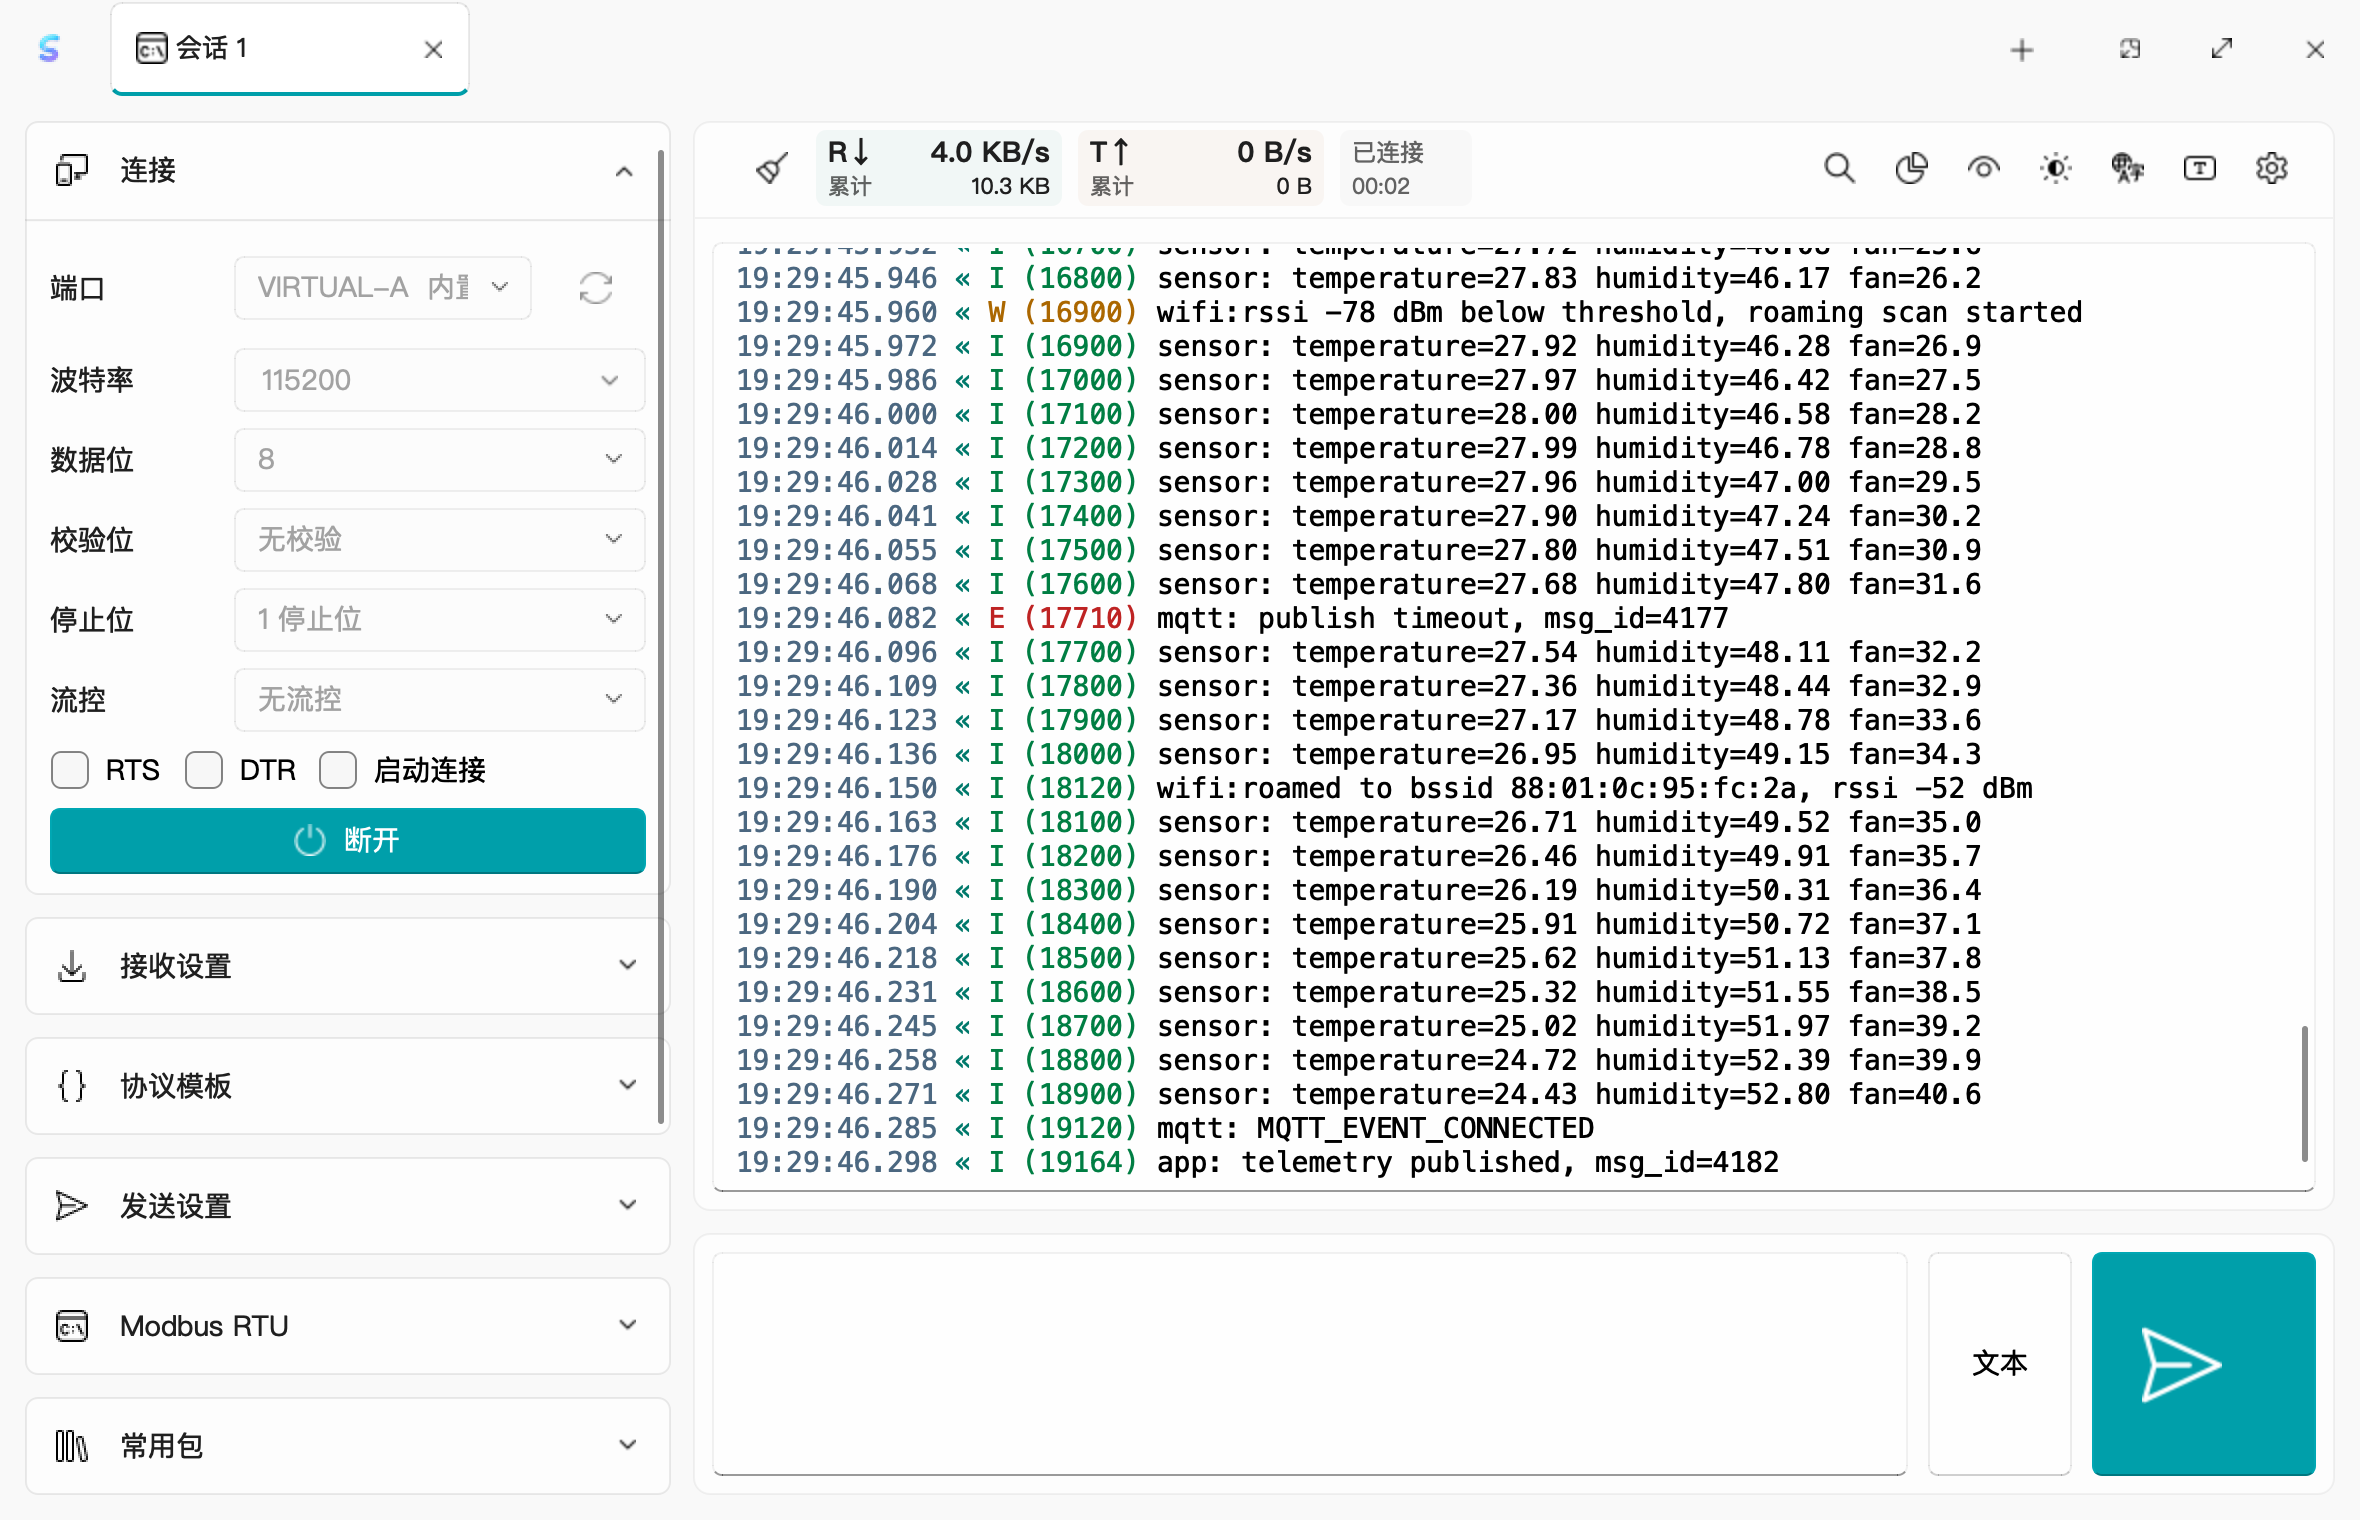
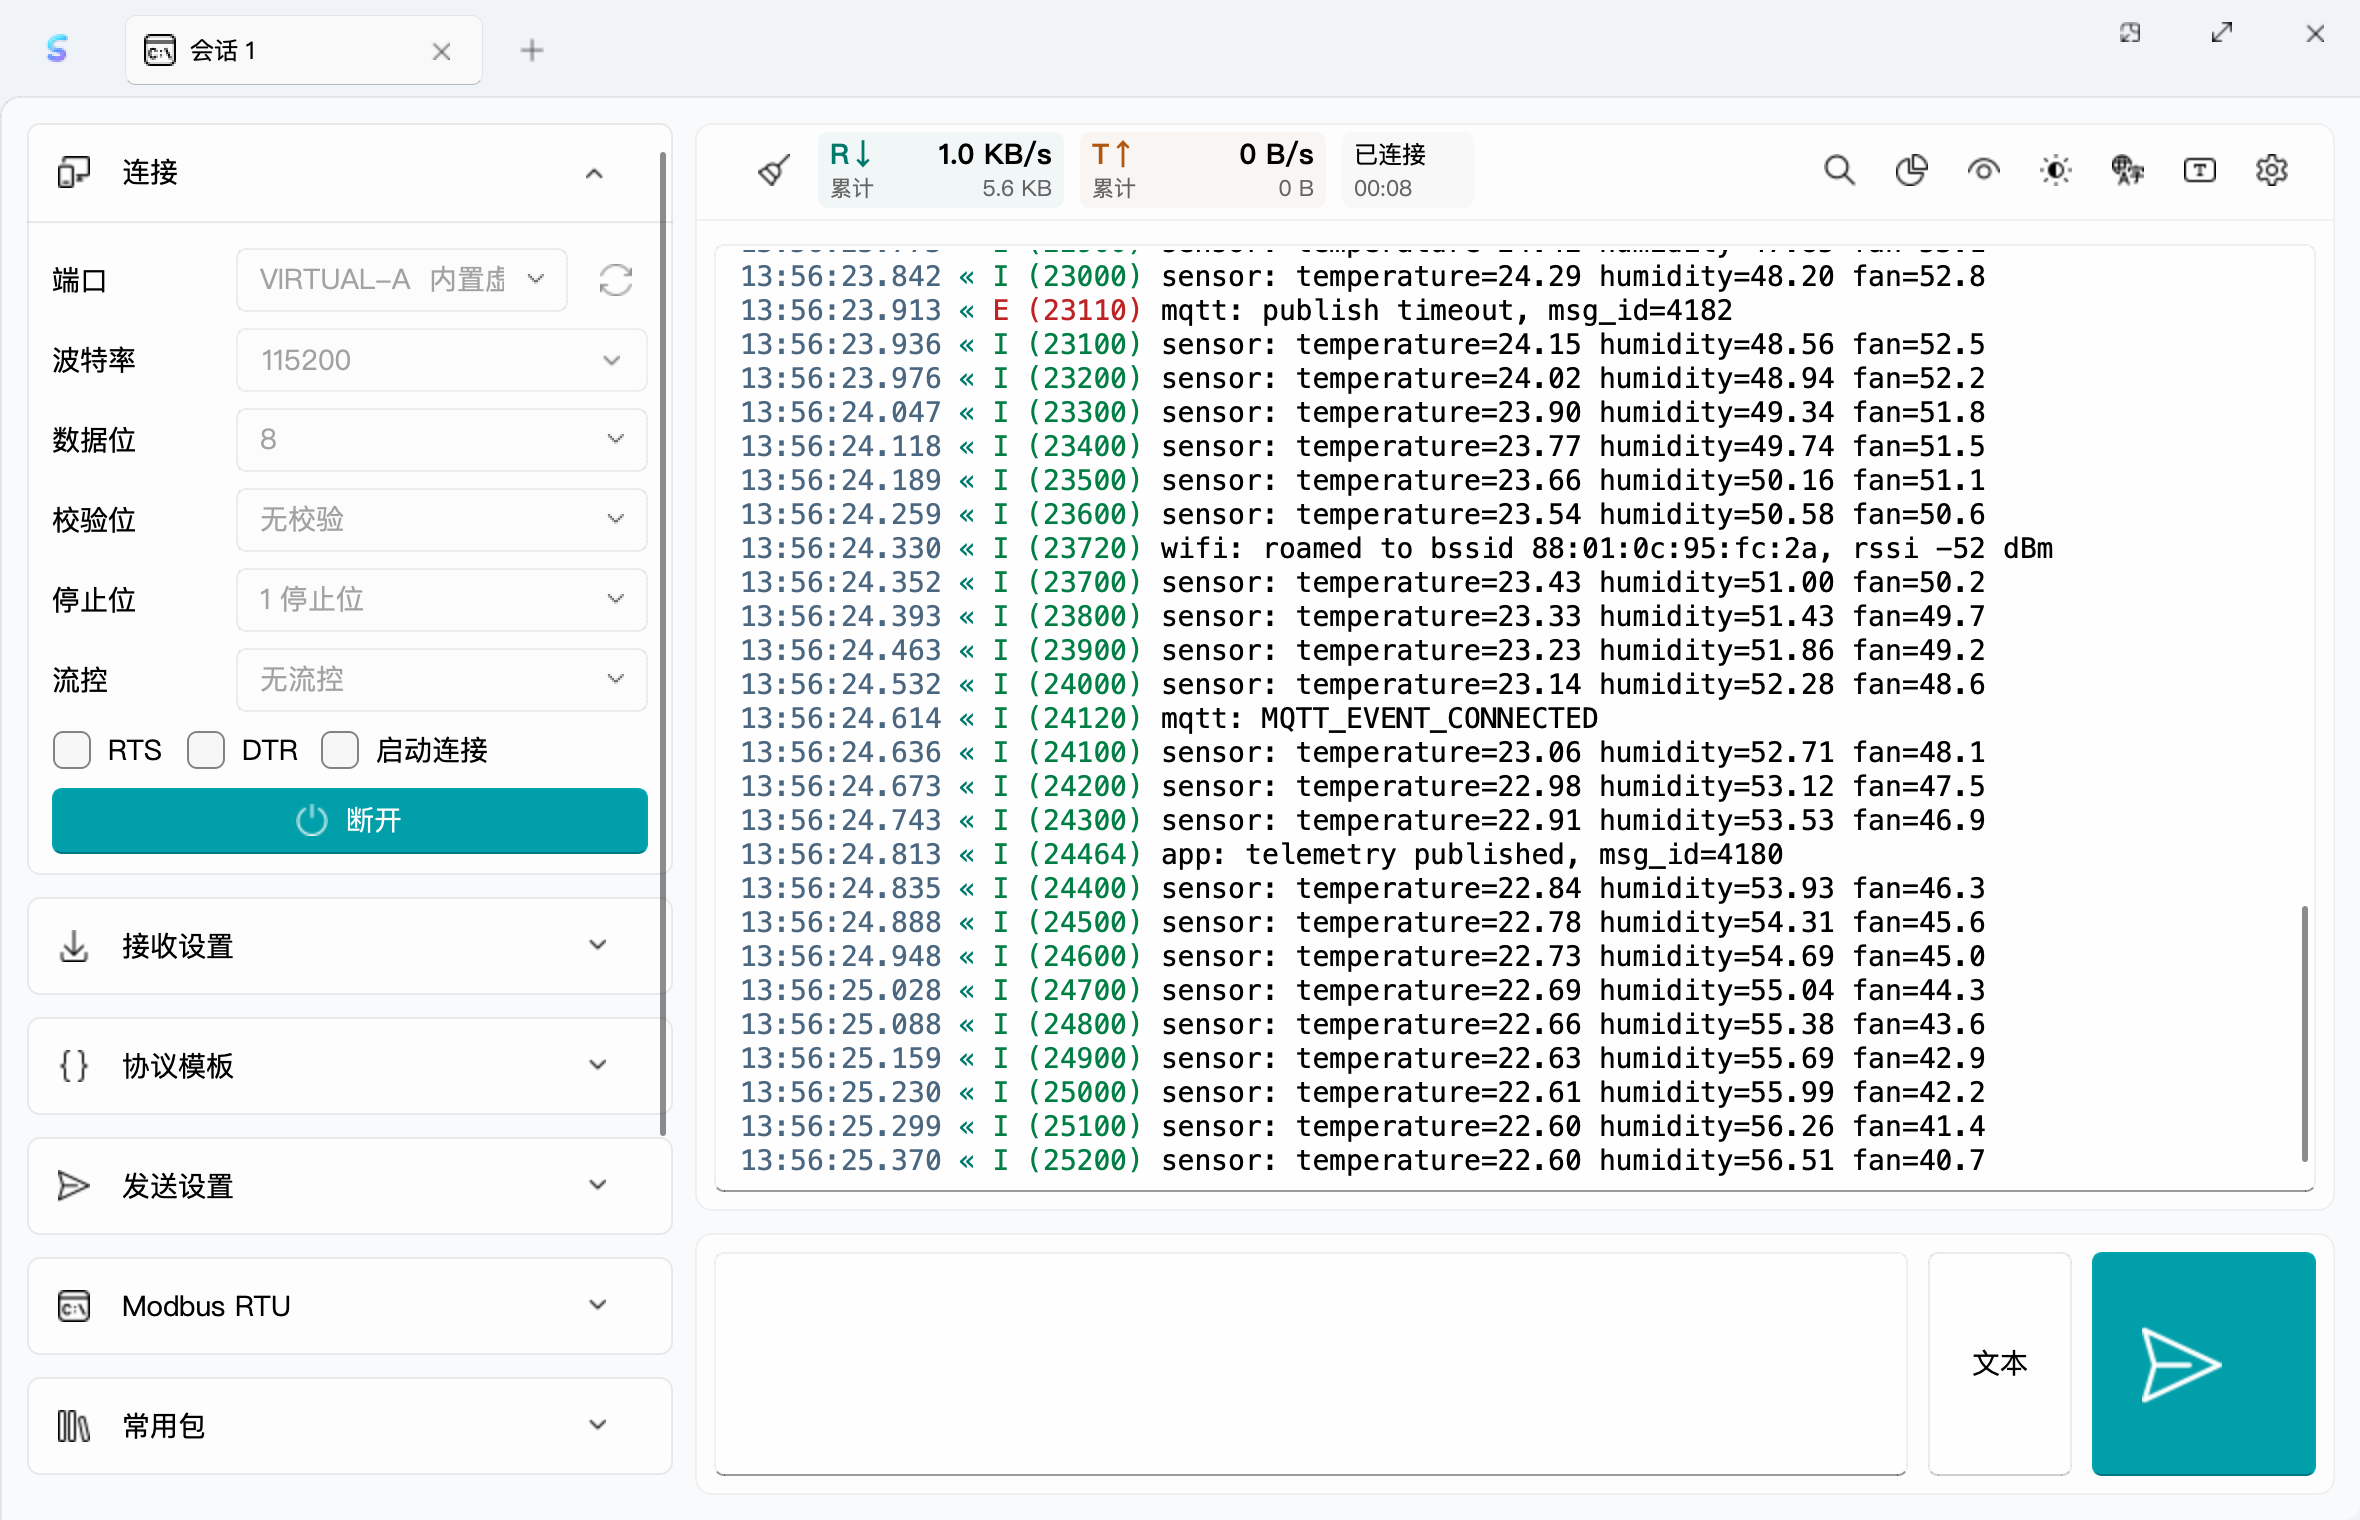
docs: refresh the screenshots and tidy the guides
- Retake the README screenshots and the demo with the current interface
  (FluentQtWidgets 0.3), at 2x as before.
- README: build steps for Qt 6.12 with aqtinstall and the automatic Qt
  lookup, the Qt version tied to the workflow's QT_VERSION, and current
  behaviour in place of version history.
- PRIVACY: the app checks GitHub for a new release when it starts, not
  only when asked; the policy said it never did.
- SECURITY: fixes ship in the latest release.
- CONTRIBUTING: the full Qt requirement, tests before a pull request,
  and build folders that exist.

diff --git a/README_EN.md b/README_EN.md
@@ -47,7 +47,7 @@ Download the package for your platform from [Releases](https://github.com/txp666
 | macOS (Apple silicon) | `FluentSerialAssistant-X.Y.Z-macos-arm64.dmg` | Open it and drag the app to the Applications folder |
 | Linux x64 / arm64 | `FluentSerialAssistant-X.Y.Z-linux-{x64,arm64}.deb` | `sudo apt install ./FluentSerialAssistant-X.Y.Z-linux-x64.deb` |
 
-The macOS build is not notarized by Apple. If macOS blocks it on first launch, click **Open Anyway** in **System Settings → Privacy & Security**. From v0.1.14 on, the app checks for updates itself and downloads, verifies, and installs them after you confirm.
+The macOS build is not notarized by Apple. If macOS blocks it on first launch, click **Open Anyway** in **System Settings → Privacy & Security**. Later updates install from inside the app; see [In-app updates](#in-app-updates).
 
 ## Features
 
@@ -161,12 +161,12 @@ git submodule update --init --recursive
 ### Requirements
 
 - CMake 3.21+ and Ninja
-- Qt 6.5+ with the Widgets, SerialPort, Svg, Network, Qml, and Core5Compat modules (select Qt Serial Port and Qt 5 Compatibility Module in the Qt installer)
+- Qt 6.12 with the Widgets, SerialPort, Svg, Network, Qml, and Core5Compat modules (select Qt Serial Port and Qt 5 Compatibility Module in the Qt installer), the `QT_VERSION` of the release workflow `.github/workflows/release.yml`
 - On Linux, also `libgl1-mesa-dev`, `libxcb-cursor0`, and `libxkbcommon-x11-0`
 
 ### Windows (MinGW)
 
-`CMakePresets.json` expects `C:/Qt/6.11.1/mingw_64` and `C:/Qt/Tools/mingw1310_64`; adjust the presets if yours differ.
+`CMakePresets.json` expects `C:/Qt/6.12.0/mingw_64` and `C:/Qt/Tools/mingw1310_64`; adjust the presets if yours differ.
 
 ```powershell
 cmake --preset mingw-release
@@ -179,11 +179,13 @@ Use the `mingw-debug` preset for a debug build. If linking reports `cannot open 
 ### macOS and Linux
 
 ```bash
-cmake -S . -B build/release -G Ninja -DCMAKE_BUILD_TYPE=Release -DCMAKE_PREFIX_PATH=/path/to/Qt/6.x/<platform>
+pip install aqtinstall
+aqt install-qt mac desktop 6.12.0 clang_64 -O ~/Qt -m qtserialport qt5compat
+cmake -S . -B build/release -G Ninja -DCMAKE_BUILD_TYPE=Release
 cmake --build build/release --parallel
 ```
 
-Leave out `CMAKE_PREFIX_PATH` when Qt is already on the default search path.
+The example installs Qt with [aqtinstall](https://github.com/miurahr/aqtinstall) on macOS; on Linux, use `linux desktop 6.12.0 linux_gcc_64`. CMake uses the newest Qt 6.12 or later from the default folder of the Qt installer or aqtinstall (`~/Qt`, `C:\Qt`) by itself. For a Qt anywhere else, add `-DCMAKE_PREFIX_PATH=<qt-dir>`.
 
 ### Running the tests
 
@@ -219,7 +221,9 @@ For local packaging, `scripts/package_release.ps1` builds a portable Windows pac
 │   ├── images/          # README screenshots
 │   ├── release-notes/   # Release notes for each version
 │   └── signing/         # Code signing setup
-├── packaging/windows/   # Inno Setup definition and translations
+├── packaging/
+│   ├── linux/           # Linux desktop entry
+│   └── windows/         # Inno Setup definition and translations
 ├── scripts/             # Packaging scripts
 ├── signing/signpath/    # SignPath artifact configurations
 ├── src/

diff --git a/PRIVACY.md b/PRIVACY.md
@@ -1,21 +1,23 @@
 # Privacy policy
 
-Fluent Serial Assistant does not include telemetry, analytics, advertising, or
-automatic background update checks.
+Fluent Serial Assistant does not include telemetry, analytics, or advertising.
 
 The application stores its settings and user-created data locally. Serial-port
 traffic, logs, exported files, protocol templates, macros, scripts, and session
 data are not uploaded by the application.
 
-The application transfers information to a networked system only after an
-explicit user action:
+The application contacts a networked system only in these cases:
 
-- Selecting **Check for updates** sends an HTTPS request to the public GitHub
-  Releases API for `txp666/FluentSerialAssistant`. GitHub receives the network
-  information normally associated with an HTTPS request, including the user's
-  IP address and the `FluentSerialAssistant` user-agent string. GitHub's
+- When it starts, and when **Check for updates** is selected, it sends one HTTPS
+  request to the public GitHub Releases API for `txp666/FluentSerialAssistant`
+  to look for a newer version. GitHub receives the network information normally
+  associated with an HTTPS request, including the user's IP address and the
+  `FluentSerialAssistant` user-agent string. GitHub's
   [privacy statement](https://docs.github.com/en/site-policy/privacy-policies/github-general-privacy-statement)
   applies.
+- A newer version is downloaded from GitHub, with the
+  `FluentSerialAssistant-Updater` user-agent string, only after the user
+  confirms it in the update dialog.
 - Selecting a release or project link opens that URL in the user's default web
   browser. The destination site's privacy policy then applies.
 

diff --git a/CONTRIBUTING.md b/CONTRIBUTING.md
@@ -18,8 +18,8 @@ cd FluentSerialAssistant
 git submodule update --init --recursive
 ```
 
-3. 安装 Qt 6.5+，确保包含 `SerialPort` 和 `Svg` 模块。
-4. 使用 CMake 构建：
+3. 安装 Qt 6.12 及所需模块，见 README 的“从源码构建 → 环境要求”。
+4. 使用 CMake 构建（Windows 示例；macOS 和 Linux 的命令见 README）：
 
 ```powershell
 cmake --preset mingw-debug
@@ -32,7 +32,7 @@ cmake --build --preset mingw-debug --parallel
 - UI 改动请尽量附截图或录屏。
 - 串口行为改动请说明测试设备、波特率和复现步骤。
 - 新功能需要同步更新 README 或相关文档。
-- 构建前请至少执行一次本地 Debug 构建。
+- 提交前请在本地构建并运行测试：`ctest --test-dir <构建目录> --output-on-failure`。
 
 ## 代码风格
 
@@ -44,13 +44,13 @@ cmake --build --preset mingw-debug --parallel
 - 提交前建议运行格式化检查：
 
 ```powershell
-cmake --build build/codex-release --target format-check
+cmake --build <构建目录> --target format-check
 ```
 
 如需自动格式化：
 
 ```powershell
-cmake --build build/codex-release --target format
+cmake --build <构建目录> --target format
 ```
 
 ## Issue 建议

diff --git a/SECURITY.md b/SECURITY.md
@@ -2,7 +2,7 @@
 
 ## 支持范围
 
-当前项目处于早期开发阶段，默认只维护主分支上的最新代码。正式发布版本后，可以在本文件中补充具体受支持版本。
+安全修复只发布在最新版本中。使用旧版本时，请先通过应用内更新或 [Releases](https://github.com/txp666/FluentSerialAssistant/releases/latest) 升级到最新版本。
 
 ## 报告安全问题
 
